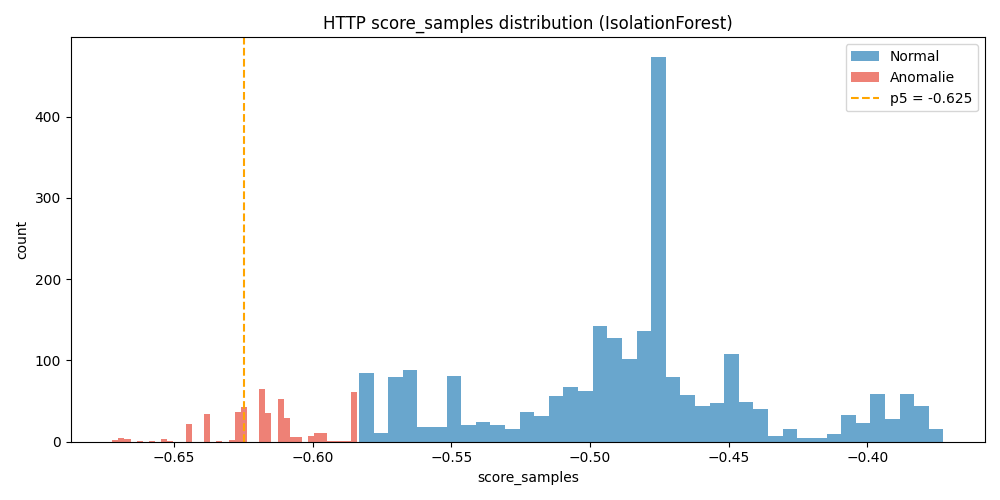
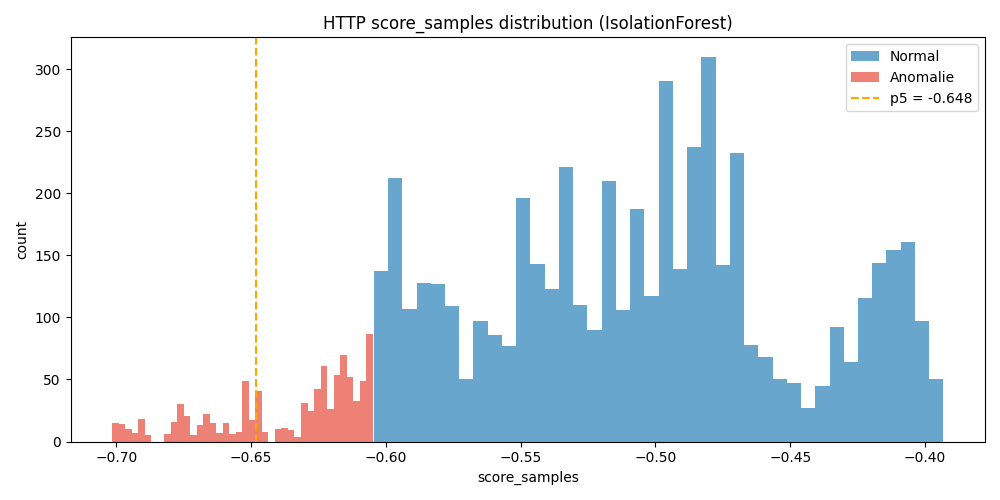
modify server name to HAFSA-HP

diff --git a/rudy_stats.html b/rudy_stats.html
@@ -1,0 +1,36 @@
+<!-- SlowHTTPTest Analysis chart (c) Sergey Shekyan, Victor Agababov 2011  -->
+ <html>
+   <head>
+   <style>
+     body { font: 12px/18px "Lucida Grande", "Lucida Sans Unicode", Helvetica, Arial, Verdana, sans-serif; background-color: transparent; color: #333; -webkit-font-smoothing: antialiased; } 
+     .slow_results {font-size: 12px; } 
+     </style>
+     <script type="text/javascript" src="https://www.google.com/jsapi"></script>
+     <script type="text/javascript">
+       google.load("visualization", "1", {packages:["corechart"]});
+       google.setOnLoadCallback(drawChart);
+       function drawChart() {
+         var data = new google.visualization.DataTable();
+         data.addColumn('string', 'Seconds');
+         data.addColumn('number', 'Closed');
+         data.addColumn('number', 'Pending');
+         data.addColumn('number', 'Connected');
+         data.addColumn('number', 'Service available');
+         data.addRows([
+['0',0,1,0,300],
+['1',175,1,0,0],
+['3655',237,1,0,0],
+        ]);
+         var chart = new google.visualization.AreaChart(document.getElementById('chart_div'));
+         chart.draw(data, {'width': 600, 'height': 360, 'title': 'Test results against http://localhost:5000/login',         hAxis: {'title': 'Seconds', 'titleTextStyle': {color: '#FF0000'}},
+         vAxis: {'title': 'Connections', 'titleTextStyle': {color: '#FF0000'}, 'viewWindowMode':'maximized'}
+     });
+     }
+     </script>
+     <title>SlowHTTPTest(tm) Connection Results</title>
+   </head>
+   <body>
+   <p><table class='slow_results' border='0'><tr><th>Test parameters</th></tr><tr><td><b>Test type</b></td><td>SLOW BODY</td></tr><tr><td><b>Number of connections</b></td><td>300</td></tr><tr><td><b>Verb</b></td><td>POST</td></tr><tr><td><b>Content-Length header value</b></td><td>8192</td></tr><tr><td><b>Cookie</b></td><td></td></tr><tr><td><b>Extra data max length</b></td><td>22</td></tr><tr><td><b>Interval between follow up data</b></td><td>110 seconds</td></tr><tr><td><b>Connections per seconds</b></td><td>200</td></tr><tr><td><b>Timeout for probe connection</b></td><td>3</td></tr><tr><td><b>Target test duration</b></td><td>240 seconds</td></tr><tr><td><b>Using proxy</b></td><td>no proxy  </td></tr></table></p>
+     <div id="chart_div"></div>
+   </body>
+ </html>

diff --git a/collector/feature_extraction.py b/collector/feature_extraction.py
@@ -1,0 +1,297 @@
+# ml/feature_extraction.py
+# Features enrichies pour HTTP + SSH (Cowrie).
+# Objectif: fournir des vecteurs numériques stables et expressifs pour IsolationForest.
+
+from __future__ import annotations
+import math
+from urllib.parse import unquote
+
+# --- HTTP ---
+
+SUSPICIOUS_HTTP = [
+    "or 1=1",
+    "union select",
+    "<script",
+    "../",
+    "sleep(",
+    "benchmark(",
+    "xp_cmdshell",
+]
+
+SENSITIVE_PATHS = [
+    "/admin", "/login", "/signin", "/auth",
+    "/.env", "/wp-admin", "/phpmyadmin", "/wp-login.php",
+    "/render", "/actuator", "/server-status", "/config",
+    "/upload", "/api/parse", "/api/search",
+]
+
+# Patterns SSTI / template injection + Log4Shell
+TEMPLATE_PATTERNS = [
+    "{{", "}}", "${", "#{", "%7b%7b", "%7d%7d",
+    "tpl=", "template=", "freemarker", "thymeleaf",
+    "${jndi",
+    "jndi:ldap", "jndi:rmi", "jndi:dns",
+]
+
+# Patterns command injection
+CMD_INJECTION_PATTERNS = [
+    ";", "&&", "||", "|", "`", "$(", "wget ", "curl ",
+    "bash ", "sh ", "nc ", "netcat", "chmod", "python",
+]
+
+# Caracteres encodes suspects
+ENCODED_SUSPICIOUS = [
+    "%3c",   # <
+    "%3e",   # >
+    "%27",   # '
+    "%22",   # "
+    "%7b",   # {
+    "%7d",   # }
+    "%2f",   # /
+    "%00",   # null byte
+    "%0a",   # newline
+    "%25",   # % (double encodage)
+]
+
+# Patterns SSRF
+SSRF_PATTERNS = [
+    "169.254.169.254",  # AWS metadata
+    "metadata.google",  # GCP metadata
+    "localhost",
+    "127.0.0.1",
+    "0.0.0.0",
+    "::1",
+    "internal",
+    "intranet",
+    "169.254.",
+    "192.168.",
+    "10.0.",
+    "172.16.",
+]
+
+# Patterns RFI / LFI
+FILE_INCLUSION_PATTERNS = [
+    "/etc/passwd",
+    "/etc/shadow",
+    "/etc/hosts",
+    "/proc/self",
+    "/var/log",
+    "php://",
+    "file://",
+    "ftp://",
+    "data://",
+    "expect://",
+    "zip://",
+    "phar://",
+    "c:\\windows",
+    "c:/windows",
+    "boot.ini",
+]
+
+# Patterns XXE
+XXE_PATTERNS = [
+    "<!doctype",
+    "<!entity",
+    "system \"file",
+    "system 'file",
+    "system \"http",
+    "system 'http",
+    "%xxe",
+    "xmlrpc",
+]
+
+
+def _string_entropy(s: str) -> float:
+    """Entropie de Shannon normalisee [0, 1]."""
+    if not s:
+        return 0.0
+    freq = {}
+    for c in s:
+        freq[c] = freq.get(c, 0) + 1
+    n = len(s)
+    entropy = -sum((f / n) * math.log2(f / n) for f in freq.values())
+    return float(min(entropy / 6.57, 1.0))
+
+
+def featurize_http(evt: dict) -> list[float]:
+    """
+    Convertit un evenement HTTP en vecteur numerique enrichi.
+
+    Features (16 dimensions):
+      0)  is_post               - methode POST
+      1)  query_len             - longueur query string
+      2)  has_suspicious_kw     - mots-cles SQLi / XSS classiques
+      3)  is_sensitive_path     - path sensible (admin, env, render...)
+      4)  ua_len                - longueur User-Agent
+      5)  body_len              - longueur du body
+      6)  has_encoded_chars     - caracteres URL-encodes suspects
+      7)  path_depth            - profondeur du path (/a/b/c -> 3)
+      8)  ua_entropy            - entropie du User-Agent
+      9)  has_template_syntax   - patterns SSTI / template injection + Log4Shell
+      10) has_cmd_injection     - patterns command injection dans query+body+ua
+      11) query_entropy         - entropie de la query string
+      12) has_ssrf              - patterns SSRF (metadata, localhost, internal...)
+      13) has_file_inclusion    - patterns RFI / LFI (/etc/passwd, php://...)
+      14) has_xxe               - patterns XXE (DOCTYPE, ENTITY...)
+      15) body_entropy          - entropie du body
+    """
+    path = (evt.get("path") or "")
+    query = (evt.get("query") or "")
+    ua = (evt.get("user_agent") or "")
+    method = (evt.get("method") or "")
+    body = (evt.get("body") or "")
+
+    qlow = query.lower()
+    blow = body.lower()
+    ua_low = ua.lower()
+    path_low = path.lower()
+
+    # Surface de detection complete : query + body + path + user-agent
+    full_combined = qlow + " " + blow + " " + path_low + " " + ua_low
+
+    # 0) is_post
+    is_post = 1.0 if method.upper() == "POST" else 0.0
+
+    # 1) query_len
+    query_len = float(len(query))
+
+    # 2) has_suspicious_kw
+    has_suspicious = 1.0 if any(s in full_combined for s in SUSPICIOUS_HTTP) else 0.0
+
+    # 3) is_sensitive_path
+    is_sensitive_path = 1.0 if any(path_low.startswith(p) for p in SENSITIVE_PATHS) else 0.0
+
+    # 4) ua_len
+    ua_len = float(len(ua))
+
+    # 5) body_len
+    body_len = float(len(body))
+
+    # 6) has_encoded_chars
+    has_encoded = 1.0 if any(e in full_combined for e in ENCODED_SUSPICIOUS) else 0.0
+
+    # 7) path_depth
+    path_depth = float(len([p for p in path.split("/") if p]))
+
+    # 8) ua_entropy
+    ua_entropy = _string_entropy(ua)
+
+    # 9) has_template_syntax — SSTI + Log4Shell (inclut UA)
+    has_template = 1.0 if any(t in full_combined for t in TEMPLATE_PATTERNS) else 0.0
+
+    # 10) has_cmd_injection (inclut UA)
+    has_cmd = 1.0 if any(c in full_combined for c in CMD_INJECTION_PATTERNS) else 0.0
+
+    # 11) query_entropy
+    query_entropy = _string_entropy(query)
+
+    # 12) has_ssrf
+    has_ssrf = 1.0 if any(s in full_combined for s in SSRF_PATTERNS) else 0.0
+
+    # 13) has_file_inclusion — RFI / LFI
+    # ✅ Fix: decoder les encodages doubles (%252F -> %2F -> /) avant de chercher
+    full_combined_decoded = unquote(unquote(full_combined))
+    has_file_inclusion = 1.0 if any(f in full_combined_decoded for f in FILE_INCLUSION_PATTERNS) else 0.0
+
+    # 14) has_xxe — full_combined utilise blow (body.lower()) -> case insensitive garanti
+    has_xxe = 1.0 if any(x in full_combined for x in XXE_PATTERNS) else 0.0
+
+    # 15) body_entropy
+    body_entropy = _string_entropy(body)
+
+    return [
+        is_post, query_len, has_suspicious, is_sensitive_path,
+        ua_len, body_len, has_encoded, path_depth,
+        ua_entropy, has_template, has_cmd, query_entropy,
+        has_ssrf, has_file_inclusion, has_xxe, body_entropy,
+    ]
+
+
+# --- SSH (Cowrie) ---
+
+SSH_POST_EXP_KW = [
+    "wget", "curl", "chmod", "bash", "python",
+    "nc ", "netcat", "perl", "sh ", "apt-get",
+    "apt ",  "pip ", "yum ",
+]
+
+SSH_RECON_KW = [
+    "uname", "whoami", "id", "cat /etc/passwd",
+    "ip a", "ifconfig", "ps ", "netstat",
+]
+
+# Patterns d'escalade de privileges
+SSH_PRIVESC_KW = [
+    "sudo", "su ", "passwd", "useradd", "usermod",
+    "visudo", "/etc/sudoers", "chown root", "setuid", "docker",
+    "nsenter", "unshare",
+]
+
+# Patterns de persistence
+SSH_PERSIST_KW = [
+    "authorized_keys", "crontab", "rc.local",
+    "systemctl enable", ".bashrc", ".profile",
+    "/etc/init.d",
+]
+
+
+def featurize_ssh_cowrie(ev: dict, fails_60s: int = 0) -> list[float]:
+    """
+    Convertit un event Cowrie en vecteur numerique enrichi.
+
+    Features (12 dimensions):
+      0)  is_login_failed       - cowrie.login.failed
+      1)  is_login_success      - cowrie.login.success
+      2)  is_command            - cowrie.command.input
+      3)  has_post_exploitation - wget, curl, bash, nc...
+      4)  has_recon             - uname, whoami, id...
+      5)  cmd_len               - longueur de la commande
+      6)  username_len          - longueur du username
+      7)  fails_60s             - nb echecs login dans les 60s
+      8)  has_privesc           - sudo, useradd, chown root...
+      9)  has_persistence       - authorized_keys, crontab...
+      10) cmd_entropy           - entropie de la commande
+      11) is_common_user        - root/admin/administrator
+    """
+    etype = (ev.get("eventid") or "")
+    cmd = (ev.get("input") or "").lower()
+    user = (ev.get("username") or "")
+
+    # 0-2) type d'event
+    is_failed = 1.0 if etype == "cowrie.login.failed" else 0.0
+    is_success = 1.0 if etype == "cowrie.login.success" else 0.0
+    is_cmd = 1.0 if etype == "cowrie.command.input" else 0.0
+
+    # 3) post-exploitation
+    has_post = 1.0 if any(k in cmd for k in SSH_POST_EXP_KW) else 0.0
+
+    # 4) recon
+    has_recon = 1.0 if any(k in cmd for k in SSH_RECON_KW) else 0.0
+
+    # 5-6) longueurs
+    cmd_len = float(len(cmd))
+    user_len = float(len(user))
+
+    # 7) frequence d'echecs
+    fail_rate = float(fails_60s)
+
+    # 8) escalade de privileges
+    has_privesc = 1.0 if any(k in cmd for k in SSH_PRIVESC_KW) else 0.0
+
+    # 9) persistence
+    has_persist = 1.0 if any(k in cmd for k in SSH_PERSIST_KW) else 0.0
+
+    # 10) entropie de la commande
+    cmd_entropy = _string_entropy(cmd)
+
+    # 11) username a risque
+    RISKY_USERS = {"root", "admin", "administrator", "oracle", "postgres", "guest"}
+    is_common_user = 1.0 if user.lower() in RISKY_USERS else 0.0
+
+    return [
+        is_failed, is_success, is_cmd,
+        has_post, has_recon,
+        cmd_len, user_len, fail_rate,
+        has_privesc, has_persist,
+        cmd_entropy, is_common_user,
+    ]

diff --git a/collector/collector.py b/collector/collector.py
@@ -1,5 +1,11 @@
 import os
 import sys
+
+# ✅ feature_extraction.py est copié dans /app via le Dockerfile
+# sys.path pointe vers /app pour garantir la cohérence entraînement/inférence
+sys.path.insert(0, "/app")
+sys.path.insert(0, "/app/ml")  # fallback si monté via volume
+
 import json
 import sqlite3
 import time
@@ -11,7 +17,6 @@ import numpy as np
 
 # ✅ Import des features depuis feature_extraction.py
 # Même vecteur utilisé à l'entraînement ET en inférence → cohérence garantie
-sys.path.insert(0, "/app/ml")
 from feature_extraction import featurize_http, featurize_ssh_cowrie
 
 DB_PATH   = "/db/incidents.db"
@@ -33,7 +38,7 @@ ALERT_COOLDOWN_SECONDS = 60
 _last_alert_time = {}  # (ip, alert_type) -> last_time_epoch
 
 # ✅ Cap flood : max incidents enregistrés par IP par fenêtre de 60s
-MAX_INCIDENTS_PER_IP_60S = 10
+MAX_INCIDENTS_PER_IP_60S = 100
 _http_incident_counts = defaultdict(lambda: deque())
 _ssh_incident_counts  = defaultdict(lambda: deque())
 
